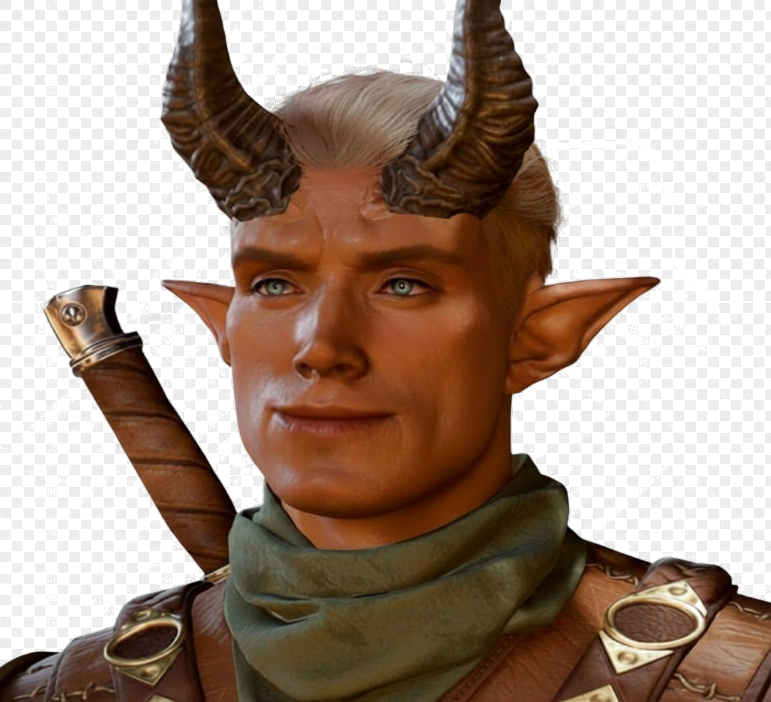
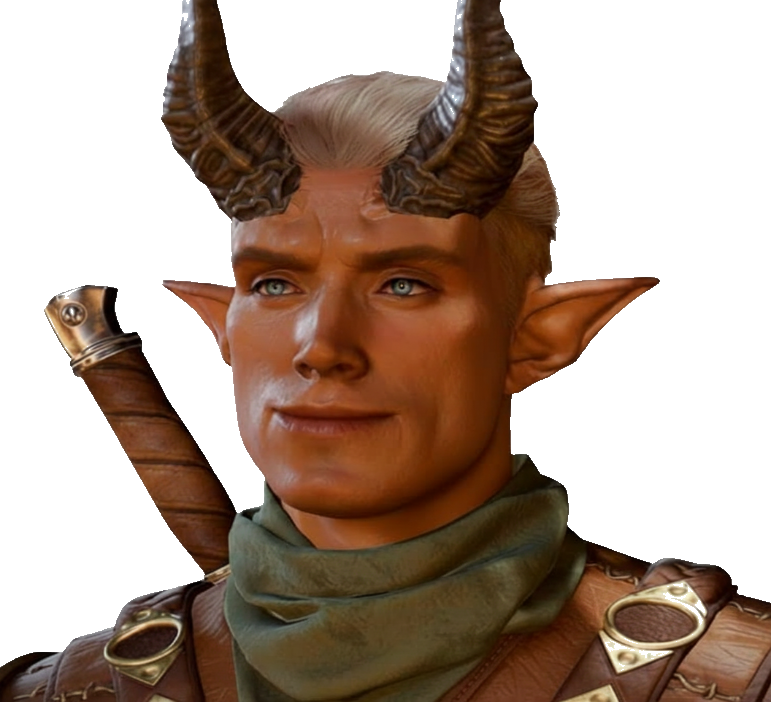
Add Tinker Bell NPC/item, fix portrait compositing bug, increase inventory font
1. bg3_renderer.py: Fix checkerboard artifact in NPC portrait rendering
   - render_npc_dialogue: replaced img.paste(port, coords, mask) with
     proper alpha_composite; the old paste call was copying transparent
     portrait pixels directly onto the base image, creating see-through
     holes that Discord rendered as a checkerboard pattern

2. bg3_renderer.py: Increase inventory text font sizes in render_card
   - Small tier (>26 rows): 13/12 → 16/14
   - Medium tier (>14 rows): 16/14 → 20/18
   - Large tier (≤14 rows): 19/17 → 23/20

3. database.py: Add '팅커벨' NPC (요정 마법사, 비전 타운 광장)

4. items.py: Add 'tinkerbell_bell' item (팅커벨의 벨, Legendary)

5. static/portraits/npc/다몬.png: Remove semi-transparent gray background
   artifact pixels (alpha < 200 with grayish RGB → alpha = 0)

6. static/portraits/npc/파울.png: Convert solid-color placeholder to
   proper transparent image

7. fix_portrait_bg.py: Add utility script for removing white/light
   backgrounds from new portrait images

https://claude.ai/code/session_01P7xmyJQ8ExWjWk9U8MuD7S

diff --git a/fix_portrait_bg.py b/fix_portrait_bg.py
@@ -1,0 +1,67 @@
+"""
+fix_portrait_bg.py — NPC 초상화 흰색/단색 배경 투명화 유틸리티
+사용법: python3 fix_portrait_bg.py static/portraits/npc/팅커벨.png
+"""
+import sys
+import os
+from PIL import Image
+
+
+def remove_white_background(input_path: str, output_path: str = None,
+                             threshold: int = 230, feather_range: int = 50):
+    """흰색/밝은 단색 배경을 투명하게 변환."""
+    if output_path is None:
+        output_path = input_path
+
+    img = Image.open(input_path).convert("RGBA")
+    pixels = img.load()
+    w, h = img.size
+
+    for y in range(h):
+        for x in range(w):
+            r, g, b, a = pixels[x, y]
+            whiteness = min(r, g, b)  # 모든 채널이 높으면 흰색/회색
+
+            if whiteness >= threshold:
+                pixels[x, y] = (r, g, b, 0)
+            elif whiteness >= threshold - feather_range:
+                # 가장자리 부드럽게: 알파 값을 점진적으로 낮춤
+                ratio = (threshold - whiteness) / feather_range
+                new_a = int(a * ratio)
+                pixels[x, y] = (r, g, b, new_a)
+
+    img.save(output_path, "PNG")
+    print(f"완료: {output_path}")
+
+
+def process_all_portraits(portrait_dir: str = "static/portraits/npc"):
+    """디렉토리 내 모든 NPC 초상화의 배경 상태를 확인."""
+    for fname in sorted(os.listdir(portrait_dir)):
+        if not fname.endswith(".png"):
+            continue
+        path = os.path.join(portrait_dir, fname)
+        img = Image.open(path).convert("RGBA")
+        # 코너 픽셀 알파 확인
+        corners = [(0, 0), (img.width - 1, 0),
+                   (0, img.height - 1), (img.width - 1, img.height - 1)]
+        max_corner_alpha = max(img.getpixel(c)[3] for c in corners)
+        if max_corner_alpha > 10:
+            print(f"[배경 필요] {fname} — 코너 알파={max_corner_alpha}")
+        else:
+            print(f"[투명 OK ] {fname}")
+
+
+if __name__ == "__main__":
+    if len(sys.argv) < 2:
+        print("사용법: python3 fix_portrait_bg.py <이미지 경로>")
+        print("       python3 fix_portrait_bg.py --check  (전체 초상화 상태 확인)")
+        sys.exit(1)
+
+    if sys.argv[1] == "--check":
+        process_all_portraits()
+    else:
+        path = sys.argv[1]
+        if not os.path.isfile(path):
+            print(f"파일 없음: {path}")
+            sys.exit(1)
+        remove_white_background(path)

diff --git a/database.py b/database.py
@@ -350,6 +350,27 @@ NPC_DATA = {
             "♫ 안녕하세요! 오늘 날씨 좋죠? 이런 날엔 노래가 두 배로 잘 나와요!",
         ],
     },
+    "팅커벨": {
+        "name": "팅커벨",
+        "role": "요정 마법사",
+        "location": "비전 타운 광장",
+        "desc": "장난기 넘치고 호기심이 왕성한 초록빛 요정. 마을에 어느 날 갑자기 나타나 정착했으며, 자신의 벨 아이템을 매우 아끼고 소중히 여긴다. 사람을 도울 때 보람을 느끼지만 돌려받는 것도 당연히 챙긴다.",
+        "appearance": "온몸이 초록빛을 띠는 날개 달린 요정. 커다란 귀와 빛나는 초록 눈이 특징이며, 나뭇잎으로 만든 의상을 입고 있다. 뒤로 올려 묶은 머리칼도 초록빛이다.",
+        "greetings": [
+            "잠깐만, 잠깐! 나 팅커벨! 뭔가 필요해? 내가 해결해줄게~",
+            "오, 왔구나! 오늘은 뭔가 재미있는 거 없어? 난 심심한 거 정말 싫거든.",
+            "이 벨 소리 들려? 딸랑딸랑~ 좋은 일이 생긴다는 뜻이야, 어쩌면.",
+            "마법? 나한테 물어봐. 어지간한 건 다 알아. 어지간하지 않은 것도 좀 알고.",
+        ],
+        "job": {
+            "name": "요정 심부름",
+            "reward_gold": 180,
+            "reward_exp": 25,
+            "energy_cost": 10,
+            "duration": "30분",
+            "desc": "팅커벨의 심부름을 대신 해주는 일.",
+        },
+    },
     "파울": {
         "name": "파울",
         "role": "여관 주인",

diff --git a/bg3_renderer.py b/bg3_renderer.py
@@ -550,11 +550,11 @@ class BG3Renderer:
         # 아이템 수에 따라 글씨 크기 유동 조절
         n_rows = len(rows)
         if n_rows > 26:
-            _lh_val = 15; _font_val = 13; _font_lbl = 12; _row_min = 24
+            _lh_val = 18; _font_val = 16; _font_lbl = 14; _row_min = 28
         elif n_rows > 14:
-            _lh_val = 18; _font_val = 16; _font_lbl = 14; _row_min = 30
+            _lh_val = 22; _font_val = 20; _font_lbl = 18; _row_min = 35
         else:
-            _lh_val = 22; _font_val = 19; _font_lbl = 17; _row_min = 36
+            _lh_val = 26; _font_val = 23; _font_lbl = 20; _row_min = 42
 
         fV = _f(_font_val, True)
         fL = _f(_font_lbl)
@@ -831,7 +831,15 @@ class BG3Renderer:
         if port:
             mk = Image.new("L",(pw2,ph2),0)
             ImageDraw.Draw(mk).rounded_rectangle([0,0,pw2-1,ph2-1],radius=6,fill=255)
-            img.paste(port,(PX0+1,PY0+1), mk)
+            # 포트레잇 알파를 둥근 사각형으로 클리핑 후 alpha_composite 사용
+            # (paste+L마스크는 투명 픽셀을 직접 복사해 체크패턴을 만드는 버그가 있음)
+            _r, _g, _b, _a = port.split()
+            clipped_a = Image.new("L", (pw2, ph2), 0)
+            clipped_a.paste(_a, mask=mk)
+            port.putalpha(clipped_a)
+            _tmp_port = Image.new("RGBA", img.size, (0,0,0,0))
+            _tmp_port.paste(port, (PX0+1, PY0+1))
+            img.alpha_composite(_tmp_port)
         else:
             _ph_portrait(img,d, PX0,PY0,PX1,PY1)
 

diff --git a/items.py b/items.py
@@ -995,6 +995,20 @@ SPECIAL_USE_ITEMS = {
 }
 ALL_ITEMS.update(SPECIAL_USE_ITEMS)
 
+# ─── 팅커벨 전용 아이템 ──────────────────────────────────────────────────────
+TINKER_BELL_ITEMS = {
+    "tinkerbell_bell": {
+        "name":     "팅커벨의 벨",
+        "type":     "special",
+        "grade":    "Legendary",
+        "price":    0,
+        "desc":     "팅커벨이 소중히 여기는 낡고 정교한 방울. 딸랑딸랑 소리가 나며, 가지고 있으면 묘하게 기분이 좋아진다고 한다.",
+        "sellable": False,
+        "icon":     "tinkerbell_bell",
+    },
+}
+ALL_ITEMS.update(TINKER_BELL_ITEMS)
+
 # ─── 의장·간식 아이템 ─────────────────────────────────────────────────────────
 from costume_data import COSTUME_ITEMS, SNACK_ITEMS
 ALL_ITEMS.update(COSTUME_ITEMS)
